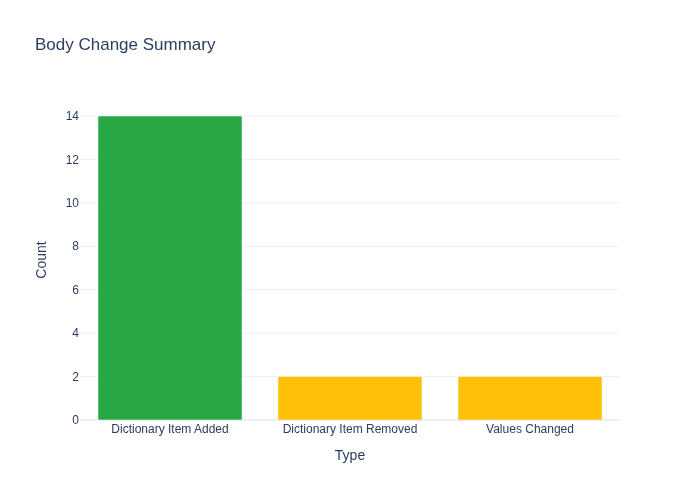
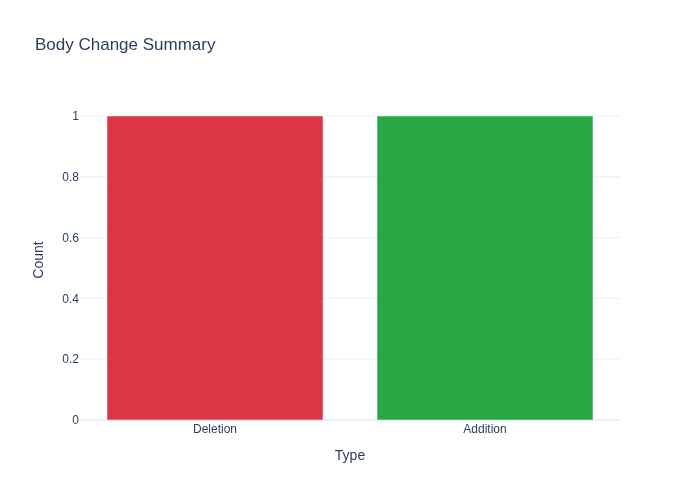
CPI responses and diff on 2025-10-30 08:38:30

diff --git a/results/diff_dashboard.html b/results/diff_dashboard.html
@@ -52,38 +52,23 @@ footer {
 </head>
 <body>
 <h1>📊 CPI Response Comparison Dashboard</h1>
-<h2>🧩 Header Differences</h2><div class='chart'><img src='header_chart.png' width='400'/></div><table><tr><th>Type</th><th>Section</th><th>Details</th></tr><tr class='value'><td>Deletion</td><td>@@ -1,18 +1,18 @@</td><td><pre>content: Text</pre></td></tr>
-<tr class='addition'><td>Addition</td><td>@@ -1,18 +1,18 @@</td><td><pre>content: JSON</pre></td></tr>
-<tr class='value'><td>Deletion</td><td>@@ -1,18 +1,18 @@</td><td><pre>sap_messageprocessinglogid: AGkDC5H6aGLCkHbfyE5QXTgpLE53</pre></td></tr>
-<tr class='value'><td>Deletion</td><td>@@ -1,18 +1,18 @@</td><td><pre>sap_mplcorrelationid: AGkDC5GrhvsGy2dCc_MdEkJR8jvL</pre></td></tr>
-<tr class='value'><td>Deletion</td><td>@@ -1,18 +1,18 @@</td><td><pre>sap_pregeneratedmplid: AGkDC5E-odu-Sdu6TX9bFC-8uY0m</pre></td></tr>
-<tr class='addition'><td>Addition</td><td>@@ -1,18 +1,18 @@</td><td><pre>sap_messageprocessinglogid: AGkDC5EuC9HJoaXG9ozmVf7k0d4T</pre></td></tr>
-<tr class='addition'><td>Addition</td><td>@@ -1,18 +1,18 @@</td><td><pre>sap_mplcorrelationid: AGkDC5Hf1iokaGuz8zsYCSB6sFs3</pre></td></tr>
-<tr class='addition'><td>Addition</td><td>@@ -1,18 +1,18 @@</td><td><pre>sap_pregeneratedmplid: AGkDC5G-cKJh5RwN7R824QgK0ETg</pre></td></tr>
-<tr class='value'><td>Deletion</td><td>@@ -1,18 +1,18 @@</td><td><pre>testheader: FirstiFlow</pre></td></tr>
-<tr class='addition'><td>Addition</td><td>@@ -1,18 +1,18 @@</td><td><pre>testheader: SecondiFlow</pre></td></tr>
-<tr class='value'><td>Deletion</td><td>@@ -1,18 +1,18 @@</td><td><pre>x-correlationid: fdc02608-d05b-4d77-51df-bdb7c369fe11</pre></td></tr>
-<tr class='addition'><td>Addition</td><td>@@ -1,18 +1,18 @@</td><td><pre>x-correlationid: 210327a9-60d0-4d7f-6f14-d03f251d7749</pre></td></tr>
-<tr class='value'><td>Deletion</td><td>@@ -1,18 +1,18 @@</td><td><pre>x-vcap-request-id: fdc02608-d05b-4d77-51df-bdb7c369fe11</pre></td></tr>
-<tr class='addition'><td>Addition</td><td>@@ -1,18 +1,18 @@</td><td><pre>x-vcap-request-id: 210327a9-60d0-4d7f-6f14-d03f251d7749</pre></td></tr>
-</table><h2>💾 Body Differences</h2><div class='chart'><img src='body_chart.png' width='400'/></div><table><tr><th>Type</th><th>Section</th><th>Details</th></tr><tr class='addition'><td>Dictionary Item Added</td><td>root['ns1:ZSD_BAPI_SALESORDER_SIMULATE']['C_ORDER_ITEMS_IN']['item']['PO_ITM_NO']</td><td><pre></pre></td></tr>
-<tr class='addition'><td>Dictionary Item Added</td><td>root['ns1:ZSD_BAPI_SALESORDER_SIMULATE']['C_ORDER_ITEMS_IN']['item']['BATCH']</td><td><pre></pre></td></tr>
-<tr class='addition'><td>Dictionary Item Added</td><td>root['ns1:ZSD_BAPI_SALESORDER_SIMULATE']['C_ORDER_ITEMS_IN']['item']['REASON_REJ']</td><td><pre></pre></td></tr>
-<tr class='addition'><td>Dictionary Item Added</td><td>root['ns1:ZSD_BAPI_SALESORDER_SIMULATE']['C_ORDER_ITEMS_IN']['item']['BILL_DATE']</td><td><pre></pre></td></tr>
-<tr class='addition'><td>Dictionary Item Added</td><td>root['ns1:ZSD_BAPI_SALESORDER_SIMULATE']['C_ORDER_ITEMS_IN']['item']['PLANT']</td><td><pre></pre></td></tr>
-<tr class='addition'><td>Dictionary Item Added</td><td>root['ns1:ZSD_BAPI_SALESORDER_SIMULATE']['C_ORDER_ITEMS_IN']['item']['STORE_LOC']</td><td><pre></pre></td></tr>
-<tr class='addition'><td>Dictionary Item Added</td><td>root['ns1:ZSD_BAPI_SALESORDER_SIMULATE']['C_ORDER_ITEMS_IN']['item']['ITEM_CATEG']</td><td><pre></pre></td></tr>
-<tr class='addition'><td>Dictionary Item Added</td><td>root['ns1:ZSD_BAPI_SALESORDER_SIMULATE']['C_ORDER_ITEMS_IN']['item']['SHORT_TEXT']</td><td><pre></pre></td></tr>
-<tr class='addition'><td>Dictionary Item Added</td><td>root['ns1:ZSD_BAPI_SALESORDER_SIMULATE']['C_ORDER_ITEMS_IN']['item']['REQ_DATE']</td><td><pre></pre></td></tr>
-<tr class='addition'><td>Dictionary Item Added</td><td>root['ns1:ZSD_BAPI_SALESORDER_SIMULATE']['C_ORDER_PARTNERS']['item']['POSTL_CODE']</td><td><pre></pre></td></tr>
-<tr class='addition'><td>Dictionary Item Added</td><td>root['ns1:ZSD_BAPI_SALESORDER_SIMULATE']['C_ORDER_PARTNERS']['item']['TELEPHONE']</td><td><pre></pre></td></tr>
-<tr class='addition'><td>Dictionary Item Added</td><td>root['ns1:ZSD_BAPI_SALESORDER_SIMULATE']['C_ORDER_PARTNERS']['item']['LANGU']</td><td><pre></pre></td></tr>
-<tr class='addition'><td>Dictionary Item Added</td><td>root['ns1:ZSD_BAPI_SALESORDER_SIMULATE']['C_ORDER_PARTNERS']['item']['ADDR_TYPE']</td><td><pre></pre></td></tr>
-<tr class='addition'><td>Dictionary Item Added</td><td>root['ns1:ZSD_BAPI_SALESORDER_SIMULATE']['I_ORDER_HEADER_IN']['DOC_NUMBER']</td><td><pre></pre></td></tr>
-<tr class='value'><td>Dictionary Item Removed</td><td>root['ns1:ZSD_BAPI_SALESORDER_SIMULATE']['I_ORDER_HEADER_IN']['SALES_ORG']</td><td><pre></pre></td></tr>
-<tr class='value'><td>Dictionary Item Removed</td><td>root['ns1:ZSD_BAPI_SALESORDER_SIMULATE']['I_ORDER_HEADER_IN']['CD_CU_ISO1']</td><td><pre></pre></td></tr>
-<tr class='value'><td>Values Changed</td><td>root['ns1:ZSD_BAPI_SALESORDER_SIMULATE']['C_ORDER_PARTNERS']['item']['COUNTRY']</td><td><pre></pre></td></tr>
-<tr class='value'><td>Values Changed</td><td>root['ns1:ZSD_BAPI_SALESORDER_SIMULATE']['C_ORDER_PARTNERS']['item']['CITY']</td><td><pre></pre></td></tr>
+<h2>🧩 Header Differences</h2><div class='chart'><img src='header_chart.png' width='400'/></div><table><tr><th>Type</th><th>Section</th><th>Details</th></tr><tr class='value'><td>Deletion</td><td>@@ -1,16 +1,19 @@</td><td><pre>HTTP/1.1 404 Not Found</pre></td></tr>
+<tr class='addition'><td>Addition</td><td>@@ -1,16 +1,19 @@</td><td><pre>HTTP/1.1 200 OK</pre></td></tr>
+<tr class='value'><td>Deletion</td><td>@@ -1,16 +1,19 @@</td><td><pre>content-language: en</pre></td></tr>
+<tr class='value'><td>Deletion</td><td>@@ -1,16 +1,19 @@</td><td><pre>content-length: 431</pre></td></tr>
+<tr class='value'><td>Deletion</td><td>@@ -1,16 +1,19 @@</td><td><pre>content-type: text/html;charset=utf-8</pre></td></tr>
+<tr class='addition'><td>Addition</td><td>@@ -1,16 +1,19 @@</td><td><pre>content: JSON</pre></td></tr>
+<tr class='addition'><td>Addition</td><td>@@ -1,16 +1,19 @@</td><td><pre>sap_messageprocessinglogid: AGkDI_mlh7ShiZqvBjMHFFrvdiQl</pre></td></tr>
+<tr class='addition'><td>Addition</td><td>@@ -1,16 +1,19 @@</td><td><pre>sap_mplcorrelationid: AGkDI_lvplauKOzknG59KTm-F6Y9</pre></td></tr>
+<tr class='addition'><td>Addition</td><td>@@ -1,16 +1,19 @@</td><td><pre>sap_pregeneratedmplid: AGkDI_mY9qZmPVLRjRfidjRm3K-8</pre></td></tr>
+<tr class='addition'><td>Addition</td><td>@@ -1,16 +1,19 @@</td><td><pre>testheader: SecondiFlow</pre></td></tr>
+<tr class='value'><td>Deletion</td><td>@@ -1,16 +1,19 @@</td><td><pre>x-correlationid: df11ef11-f20e-45d9-4a5b-b8cf0640f32b</pre></td></tr>
+<tr class='addition'><td>Addition</td><td>@@ -1,16 +1,19 @@</td><td><pre>x-correlationid: f256a1f5-bd8b-4505-5b38-f651398fbccc</pre></td></tr>
+<tr class='value'><td>Deletion</td><td>@@ -1,16 +1,19 @@</td><td><pre>x-vcap-request-id: df11ef11-f20e-45d9-4a5b-b8cf0640f32b</pre></td></tr>
+<tr class='addition'><td>Addition</td><td>@@ -1,16 +1,19 @@</td><td><pre>x-vcap-request-id: f256a1f5-bd8b-4505-5b38-f651398fbccc</pre></td></tr>
+<tr class='addition'><td>Addition</td><td>@@ -1,16 +1,19 @@</td><td><pre>transfer-encoding: chunked</pre></td></tr>
+</table><h2>💾 Body Differences</h2><div class='chart'><img src='body_chart.png' width='400'/></div><table><tr><th>Type</th><th>Section</th><th>Details</th></tr><tr class='value'><td>Deletion</td><td>@@ -1 +1 @@</td><td><pre><!doctype html><html lang="en"><head><title>HTTP Status 404 – Not Found</title><style type="text/css">body {font-family:Tahoma,Arial,sans-serif;} h1, h2, h3, b {color:white;background-color:#525D76;} h1 {font-size:22px;} h2 {font-size:16px;} h3 {font-size:14px;} p {font-size:12px;} a {color:black;} .line {height:1px;background-color:#525D76;border:none;}</style></head><body><h1>HTTP Status 404 – Not Found</h1></body></html></pre></td></tr>
+<tr class='addition'><td>Addition</td><td>@@ -1 +1 @@</td><td><pre>{"ns1:ZSD_BAPI_SALESORDER_SIMULATE":{"C_ORDER_ITEMS_IN":{"item":{"CUSTOM_ITEM_ID":"0a99O000000iezRQAQ","PO_ITM_NO":"30","MATERIAL":"230951","BATCH":"102530","REASON_REJ":"Order is Rejected due to customer being blocked","BILL_DATE":"20251030140817","PLANT":"Santa Monica","STORE_LOC":"Basel, Switzerland","TARGET_QTY":"2000","REQ_QTY":"2000","SALES_UNIT":"IGB","ITEM_CATEG":"Fertilizers","SHORT_TEXT":"Order to be placed once customer is unblocked","REQ_DATE":"2025-10-30"},"item":{"CUSTOM_ITEM_ID":"0a99O000000if13QAA","PO_ITM_NO":"30","MATERIAL":"230952","BATCH":"102530","REASON_REJ":"Order is Rejected due to customer being blocked","BILL_DATE":"20251030140817","PLANT":"Santa Monica","STORE_LOC":"Basel, Switzerland","TARGET_QTY":"3000","REQ_QTY":"3000","SALES_UNIT":"IGB","ITEM_CATEG":"Fertilizers","SHORT_TEXT":"Order to be placed once customer is unblocked","REQ_DATE":"2025-10-30"}},"C_ORDER_PARTNERS":{"item":{"PARTN_ROLE":"AG","PARTN_NUMB":"4717357","COUNTRY":"Poland","POSTL_CODE":"PO:411789","CITY":"Pune(IN)","TELEPHONE":"0124-24356823","LANGU":"EN","ADDR_TYPE":"Commercial"},"item":{"PARTN_ROLE":"TEJ","PARTN_NUMB":"4717357","COUNTRY":"Poland","POSTL_CODE":"PO:411789","CITY":"Pune(IN)","TELEPHONE":"0124-24356823","LANGU":"EN","ADDR_TYPE":"Commercial"}},"I_CUSTOM_HEADER_IN":{"CUSTOM_HEADER_ID":"0a69O000000F3yTQAS"},"I_EXTENSION_IN":{"TAXK1":"1"},"I_ORDER_HEADER_IN":{"DOC_NUMBER":"20251030","DOC_TYPE":"ZDPP","DISTR_CHAN":"02","DIVISION":"02","PURCH_NO":"UK Cart","PMNTTRMS":"0600","CD_TYPE1":"","CD_VALUE1":"0","CD_TYPE2":"ZDR3","CD_VALUE2":"0","CD_CU_ISO2":""}}}</pre></td></tr>
 </table>
 <footer>
 <hr>
